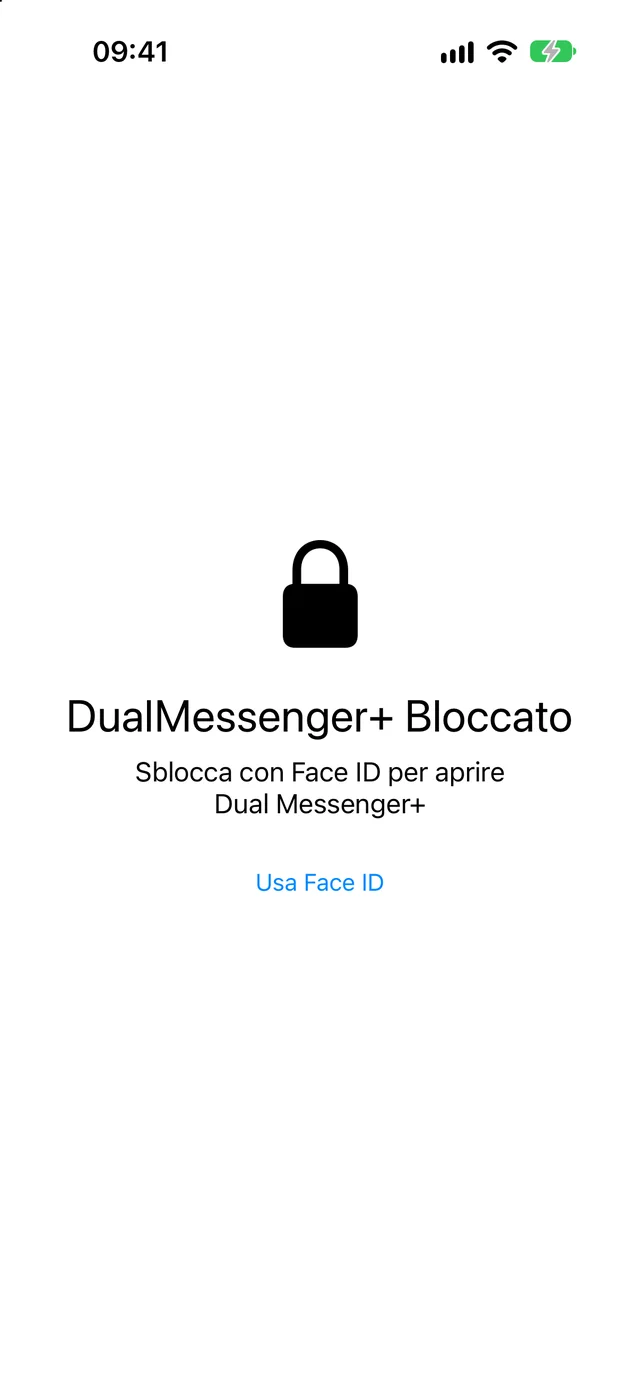
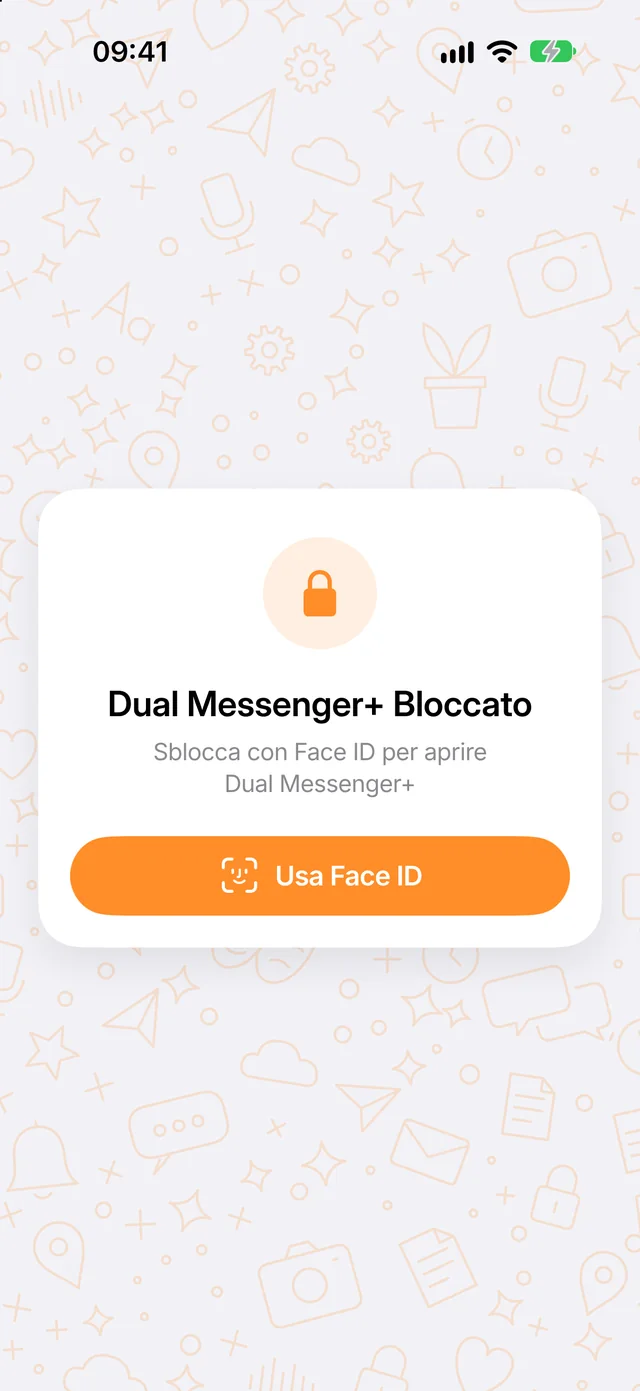
Update the site for version 1.5.0
The lock screen of version 1.5.0 in every language, and the feature
cards in a new order: lock, notes and reminders, AI bot, voice to text.

Claude-Session: https://claude.ai/code/session_01GRQs87mkcxXmCTb4kdJ2BZ

diff --git a/tools/images.py b/tools/images.py
@@ -64,14 +64,15 @@ if ONLY: LANGS = [c for c in LANGS if c in ONLY]
 
 
 def source(code, name):
-    """Phone screens of version 1.4.1: the Messenger+ page and Notes were captured again for 1.4.1,
-    Voice To Text and Chat Bot come from the 1.4.0 sets (same tab bar), the lock screen did not change."""
+    """Phone screens of version 1.5.0: the Messenger+ page and Notes come from the 1.4.1 captures,
+    Voice To Text and Chat Bot from the 1.4.0 sets (same tab bar), and the lock screen is the new 1.5.0 one
+    (English: the real capture; other languages built from it, see /home/claude/lock02)."""
     if name == 'main': return S + f'iphone_v3_{code}/01.png'
     if name == 'notes': return S + f'iphone_v3_{code}/05.png'
     if name == 'voice': return S + f'iphone_v2_{code}/03.png'
     if name == 'bot': return S + f'iphone_v2_{code}/04.png'
     if name == 'funny': return S + f'voices_{code}/06.png'
-    return (S if code == 'en' else S + code + '/') + '02.png'       # lock
+    return S + f'lock2_iphone/{code}.png'                           # lock (1.5.0)
 
 
 shots = ['main', 'lock', 'voice', 'bot', 'notes', 'funny']

diff --git a/tools/reorder_features.py b/tools/reorder_features.py
@@ -1,0 +1,18 @@
+"""Puts the feature cards in the order funny, lock, notes, bot, voice (1.5.0 site) and updates the lock
+screen's alt text to the new screen ("Dual Messenger+" with a space, as the new lock screen shows it).
+  python3 tools/reorder_features.py CODE ..."""
+import json, sys
+ORDER = ['funny', 'lock', 'notes', 'bot', 'voice']
+for code in sys.argv[1:]:
+    p = f'content/{code}/site.json'
+    raw = open(p, encoding='utf-8').read()
+    d = json.loads(raw)
+    items = d['features']['items']
+    by = {i['img']: i for i in items}
+    assert sorted(by) == sorted(ORDER) and len(items) == len(ORDER), (code, list(by))
+    d['features']['items'] = [by[k] for k in ORDER]
+    lock = by['lock']
+    assert lock['alt'].count('DualMessenger+') == 1, (code, lock['alt'])
+    lock['alt'] = lock['alt'].replace('DualMessenger+', 'Dual Messenger+')
+    open(p, 'w', encoding='utf-8').write(json.dumps(d, ensure_ascii=False, indent=2) + ('\n' if raw.endswith('\n') else ''))
+    print(code, [i['img'] for i in d['features']['items']], '|', lock['alt'])
